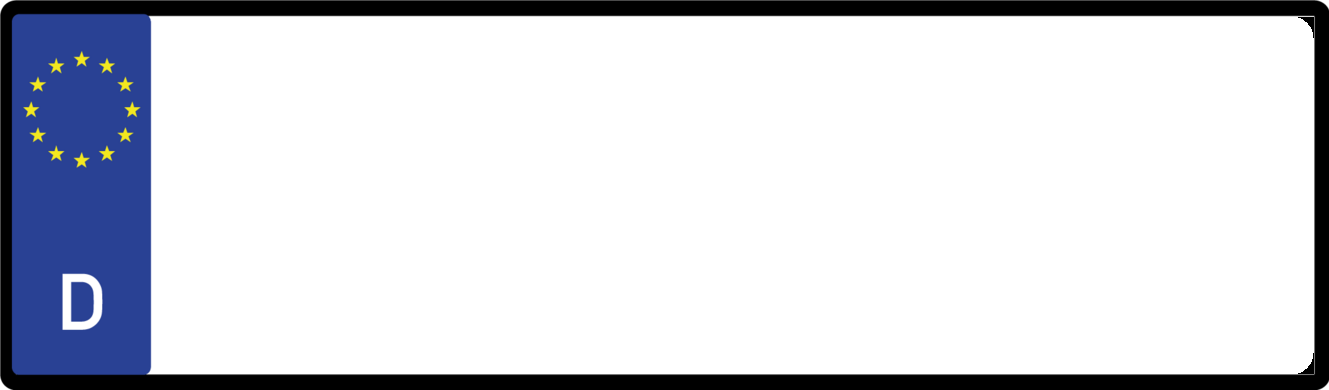
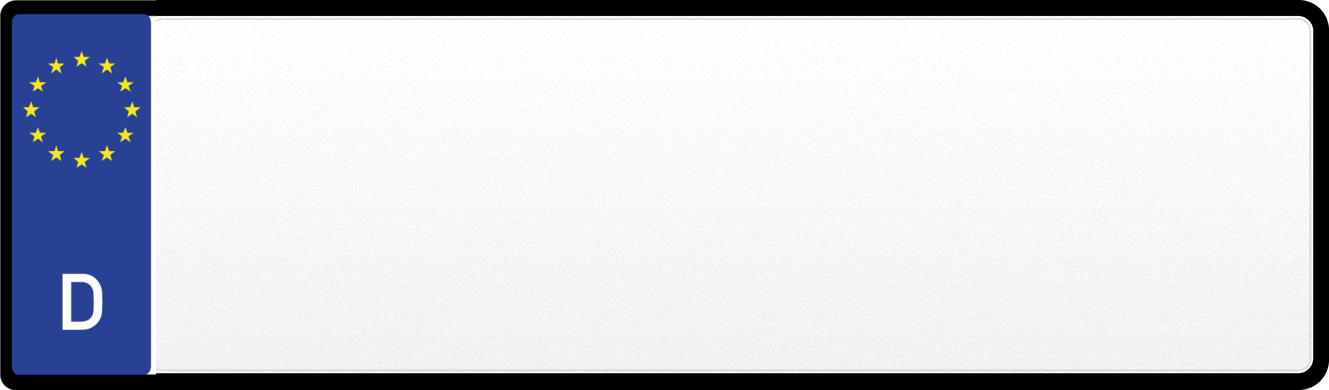
Germany plates: realistic look (clean rounded border, grained face, embossed lettering and seals with soft shadows, wider lettering), front-plate seal centred

Changed region(s): [[0.1234, 0.0, 1.0, 1.0]]

diff --git a/app/lib/plateLayout.ts b/app/lib/plateLayout.ts
@@ -115,8 +115,10 @@ export type PlateArt = {
   stickers?: { src: string; x: number; y: number; w: number; h: number; bit: number }[];
   /** Lettering colour (default near-black). */
   textColor?: string;
+  /** Stamped lettering and raised seals: draw a soft shadow under them. */
+  emboss?: boolean;
   /** Germany: the seal slot holds an inspection sticker over the state seal (art-pixel centres and diameters). */
-  huSeals?: { stickerY: number; sealY: number; stickerD: number; sealD: number };
+  huSeals?: { stickerY: number; sealY: number; stickerD: number; sealD: number; frontY: number };
   /** Width of a word space in em (FE-Schrift; default 0.5). */
   space?: number;
 };
@@ -248,7 +250,7 @@ export const PLATE_ART: Record<string, PlateArt> = {
   "czech:two-euro": { src: "/plates/czech/two-euro.png", w: 560, h: 400, rows: [{ y0: 28, y1: 190, x0: 112, x1: 420, slots: 1, align: "left" }, { y0: 212, y1: 378, x0: 112, x1: 520, slots: 1, align: "left" }], split: "at-two", font: "cz", fill: 0.92, stickers: [{ src: "/plates/czech/sticker-red.png", x: 436, y: 22, w: 82, h: 82, bit: 1 }, { src: "/plates/czech/sticker-green.png", x: 436, y: 108, w: 82, h: 82, bit: 2 }] },
   "czech:two": { src: "/plates/czech/two.png", w: 560, h: 400, rows: [{ y0: 28, y1: 190, x0: 40, x1: 420, slots: 1, align: "left" }, { y0: 212, y1: 378, x0: 40, x1: 520, slots: 1, align: "left" }], split: "at-two", font: "cz", fill: 0.92, stickers: [{ src: "/plates/czech/sticker-red.png", x: 436, y: 22, w: 82, h: 82, bit: 1 }, { src: "/plates/czech/sticker-green.png", x: 436, y: 108, w: 82, h: 82, bit: 2 }] },
   // ── Germany: the full 520 mm plate (FE-Schrift); the stacked inspection sticker + seal sits between the district and the letters/digits ──
-  "germany:single": { src: "/plates/germany/single.png", w: 1920, h: 390, rows: [{ y0: 50, y1: 328, x0: 172, x1: 1885, slots: 2, seal: true, gap: 0.1 }], split: "at-seal", seal: "/plates/germany/seals/XX.png", sealAspect: 162 / 322, sealH: 1.16, fill: 0.98, space: 0.2, huSeals: { stickerY: 112, sealY: 285, stickerD: 134, sealD: 158 } },
+  "germany:single": { src: "/plates/germany/single.png", w: 1920, h: 390, rows: [{ y0: 50, y1: 328, x0: 172, x1: 1885, slots: 2, seal: true, gap: 0.1 }], split: "at-seal", seal: "/plates/germany/seals/XX.png", sealAspect: 162 / 322, sealH: 1.16, fill: 0.98, space: 0.2, emboss: true, condense: 0.88, tracking: 0.015, huSeals: { stickerY: 112, sealY: 285, stickerD: 134, sealD: 158, frontY: 195 } },
   // ── Croatia: the supplied plate photo with the lettering removed; the coat of arms is part of the artwork (region on its left, digits on its right). D-DIN lettering. ──
   // two-row car plate: region on top (left of the coat of arms), number below
   "croatia:two-line-euroband": { src: "/plates/croatia/two-euroband.png", w: 1024, h: 700, rows: [{ y0: 76, y1: 326, x0: 220, x1: 790, slots: 1 }, { y0: 346, y1: 626, x0: 50, x1: 974, slots: 1 }], split: "at-two", font: "dd", fill: 0.92, condense: 0.9, tracking: 0.03, thin: -0.02 },
@@ -770,7 +772,7 @@ export function plateLayout(country: string, rawText: string, height: number, pl
       const slots = seals.splice(0, seals.length);
       for (const e of slots) {
         if (yy) seals.push({ cx: e.cx, cy: b.stickerY * s, d: b.stickerD * s, h: b.stickerD * s, src: `/plates/germany/hu/${yy}.png` });
-        seals.push({ cx: e.cx, cy: b.sealY * s, d: b.sealD * s, h: b.sealD * s, src: sealSrc });
+        seals.push({ cx: e.cx, cy: (yy ? b.sealY : b.frontY) * s, d: b.sealD * s, h: b.sealD * s, src: sealSrc });
       }
     }
     return { width, height: h, printed, art, font, chip: null, runs, seals, stickers };

diff --git a/app/api/plate/route.ts b/app/api/plate/route.ts
@@ -192,17 +192,26 @@ export async function GET(req: Request) {
 
   const color = layout.art?.textColor ?? "#111";
   const dd = layout.font === "dd" ? await getDD() : null;
-  const runs = layout.runs.map((r) => layout.font === "dd"
-    ? runSvg(dd!, r, color)
+  const runsIn = (c: string) => layout.runs.map((r) => layout.font === "dd"
+    ? runSvg(dd!, r, c)
     : layout.font !== "fe"
-    ? runSvgTraced(r, color, layout.font as Exclude<PlateFont, "fe" | "dd">)
-    : runSvg(font, r, color)).join("");
+    ? runSvgTraced(r, c, layout.font as Exclude<PlateFont, "fe" | "dd">)
+    : runSvg(font, r, c)).join("");
+  let runs = runsIn(color);
+  // embossed plates (stamped letters, raised seals): a soft shadow falls to the lower right
+  let sealShadow = "";
+  if (layout.art?.emboss) {
+    const dx = h * 0.008, dy = h * 0.012;
+    runs = `<g transform="translate(${dx.toFixed(2)} ${dy.toFixed(2)})" filter="url(#sh)" opacity="0.42">${runsIn("#000")}</g>${runs}`;
+    sealShadow = layout.seals.map((k) => `<ellipse cx="${(k.cx + dx * 0.7).toFixed(2)}" cy="${(k.cy + dy * 0.9).toFixed(2)}" rx="${(k.d / 2).toFixed(2)}" ry="${((k.h ?? k.d) / 2).toFixed(2)}" fill="#000" opacity="0.38" filter="url(#sh)"/>`).join("");
+  }
+  const defs = layout.art?.emboss ? `<defs><filter id="sh" x="-10%" y="-10%" width="120%" height="125%"><feGaussianBlur stdDeviation="${(h * 0.007).toFixed(2)}"/></filter></defs>` : "";
   let stickers = "";
   if (layout.stickers.length) {
     stickers = (await Promise.all(layout.stickers.map(async (k) => `<image href="${await getArtDataUri(k.src)}" x="${k.x.toFixed(2)}" y="${k.y.toFixed(2)}" width="${k.w.toFixed(2)}" height="${k.h.toFixed(2)}"/>`))).join("");
   }
   const svg = `<svg xmlns="http://www.w3.org/2000/svg" width="${width}" height="${h}" viewBox="0 0 ${width} ${h}">`
-    + `<title>${esc(layout.printed)}</title>${background}${seals}${stickers}${runs}</svg>`;
+    + `<title>${esc(layout.printed)}</title>${defs}${background}${sealShadow}${seals}${stickers}${runs}</svg>`;
 
   const png = await sharp(Buffer.from(svg)).png({ compressionLevel: 9 }).toBuffer();
   // ASCII-only filename (HTTP headers can't carry Ä/Ö/Ü)

diff --git a/app/components/PlateBadge.tsx b/app/components/PlateBadge.tsx
@@ -12,7 +12,7 @@ export { formatPlateText } from "@/app/lib/plateLayout";
 export type { PlateSize };
 
 /** Bump when the plate rendering changes, so CDN-cached images refresh. */
-const PLATE_IMAGE_VERSION = 143;
+const PLATE_IMAGE_VERSION = 146;
 /** Render at 3× for crisp output on high-density screens. */
 const DENSITY = 3;
 

diff --git a/scripts/build-germany-art.py b/scripts/build-germany-art.py
@@ -13,17 +13,34 @@ W, H = src.size
 OUT = os.path.join(ROOT, "public/plates/germany")
 os.makedirs(OUT, exist_ok=True)
 
-# blank face: everything right of the euroband and inside the border becomes white
-face = src.copy()
-d = ImageDraw.Draw(face)
-d.rectangle([156, 22, 1898, 369], fill=(255, 255, 255, 255))
-# the face has rounded corners on the right (the border's inner edge is round), so no white pokes into the border
-R = 22
-for (cx, cy, x0, y0, x1, y1) in [(1904 - R, 16 + R, 1904 - R, 16, 1904, 16 + R), (1904 - R, 374 - R, 1904 - R, 374 - R, 1904, 374)]:
-    for y in range(y0, y1 + 1):
-        for x in range(x0, x1 + 1):
-            if (x - cx) ** 2 + (y - cy) ** 2 > R * R and face.getpixel((x, y))[:3] == (255, 255, 255):
-                face.putpixel((x, y), (0, 0, 0, 255))
+# blank face: the border and the face are drawn fresh (clean rounded corners, a faint gradient and an inner rim), the euroband comes from the photo
+SS = 4
+big = Image.new("RGBA", (W * SS, H * SS), (0, 0, 0, 0))
+bd = ImageDraw.Draw(big)
+bd.rounded_rectangle([0, 0, W * SS - 1, H * SS - 1], radius=30 * SS, fill=(0, 0, 0, 255))
+FX0, FY0, FX1, FY1 = 150, 16, 1904, 373
+face_mask = Image.new("L", big.size, 0)
+ImageDraw.Draw(face_mask).rounded_rectangle([FX0 * SS - 40 * SS, FY0 * SS, FX1 * SS, FY1 * SS], radius=15 * SS, fill=255)
+grad = Image.new("RGBA", big.size, (255, 255, 255, 255))
+gd = ImageDraw.Draw(grad)
+for y in range(FY0 * SS, FY1 * SS + 1):
+    t = (y - FY0 * SS) / ((FY1 - FY0) * SS)
+    v = round(255 - 14 * t)                                   # white at the top, a touch greyer at the bottom
+    gd.line([(0, y), (big.size[0], y)], fill=(v, v, v, 255))
+big.paste(grad, (0, 0), face_mask)
+# faint inner rim just inside the border
+ImageDraw.Draw(big).rounded_rectangle([FX0 * SS, FY0 * SS + 2 * SS, FX1 * SS - 2 * SS, FY1 * SS - 2 * SS], radius=13 * SS, outline=(222, 222, 222, 255), width=2 * SS)
+face = big.resize((W, H), Image.LANCZOS)
+# a fine grain in the face (stamped sheet metal, not a flat fill)
+import random
+random.seed(7)
+from PIL import ImageChops
+noise = Image.effect_noise((W, H), 14).point(lambda p: max(0, min(255, p // 5)))       # 0..51, mean ~25
+grain = Image.merge("RGB", (noise, noise, noise))
+fmask = face_mask.resize((W, H), Image.LANCZOS)
+fr = ImageChops.add(face.convert("RGB"), grain, 1, -25)
+face.paste(fr, (0, 0), fmask)
+face.paste(src.crop((0, 0, 156, H)), (0, 0))                  # border corners and euroband (stars, D) from the photo
 face.save(os.path.join(OUT, "single.png"))
 
 # shortened plates: the same plate with a slice cut out of the middle of the white face (lengths in mm as the shops offer them)
